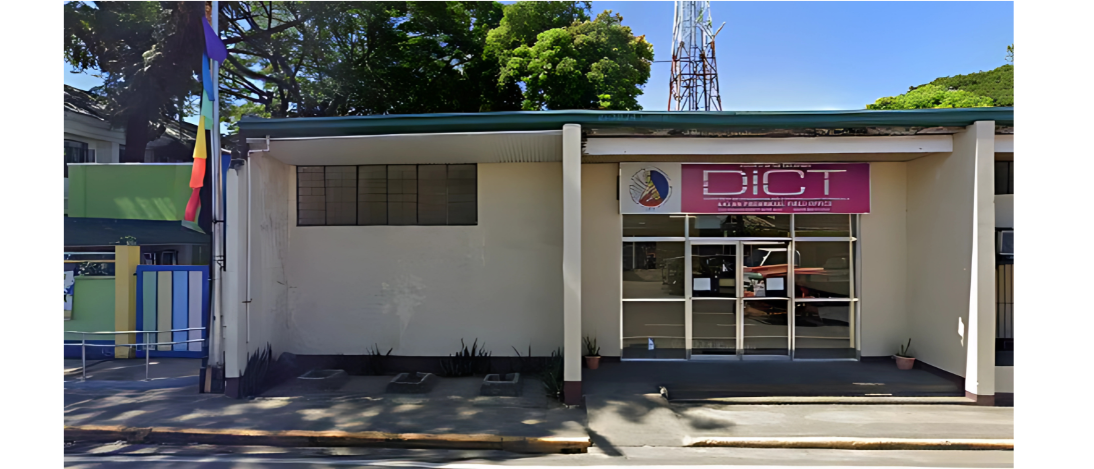
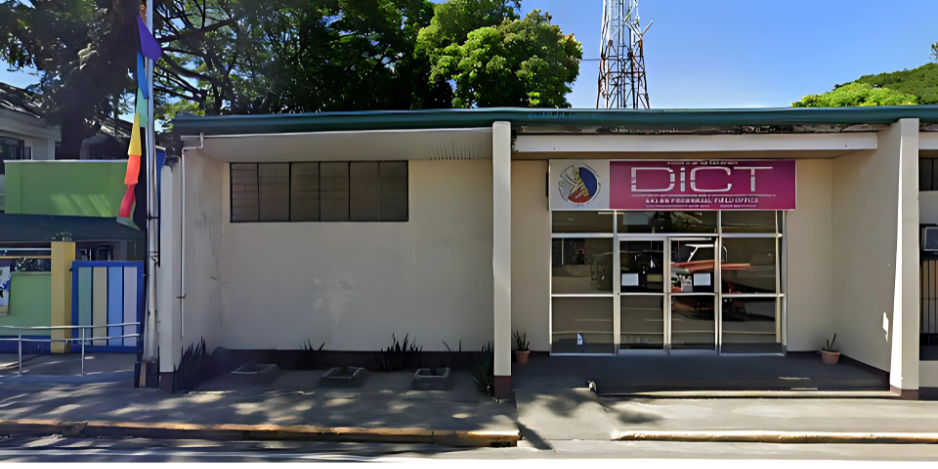
landing page bg change

diff --git a/index.php b/index.php
@@ -108,7 +108,7 @@ https://templatemo.com/tm-575-leadership-event
                 </div>
 
                 <div class="video-wrap">
-                    <img src="images/DICTSTREET/dictstreetview.jpeg" alt="Street View" class="custom-image">
+                    <img src="images/DICTSTREET/dictstreetview.png" alt="Street View" class="custom-image">
                 </div>
             </section>
 
